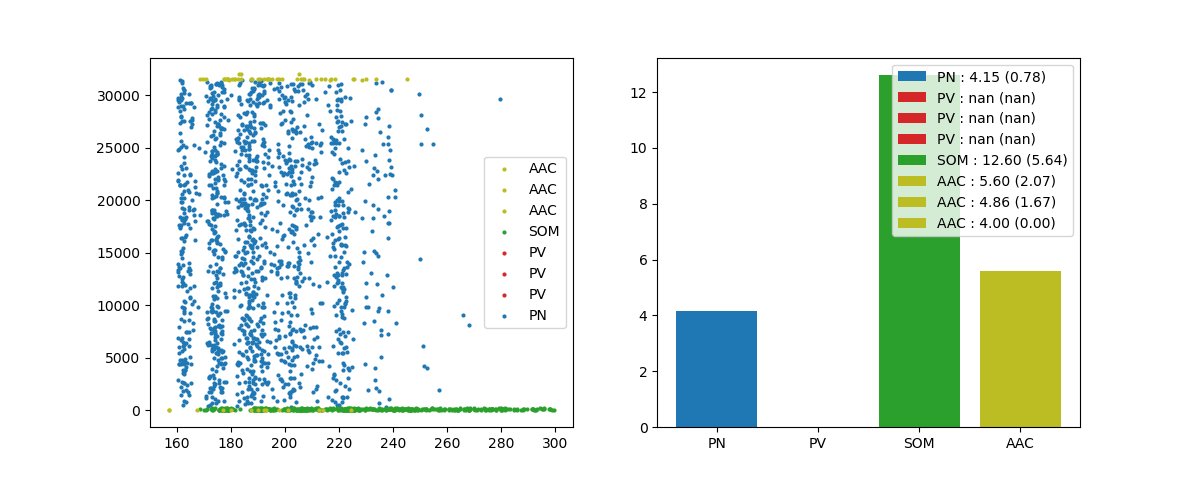
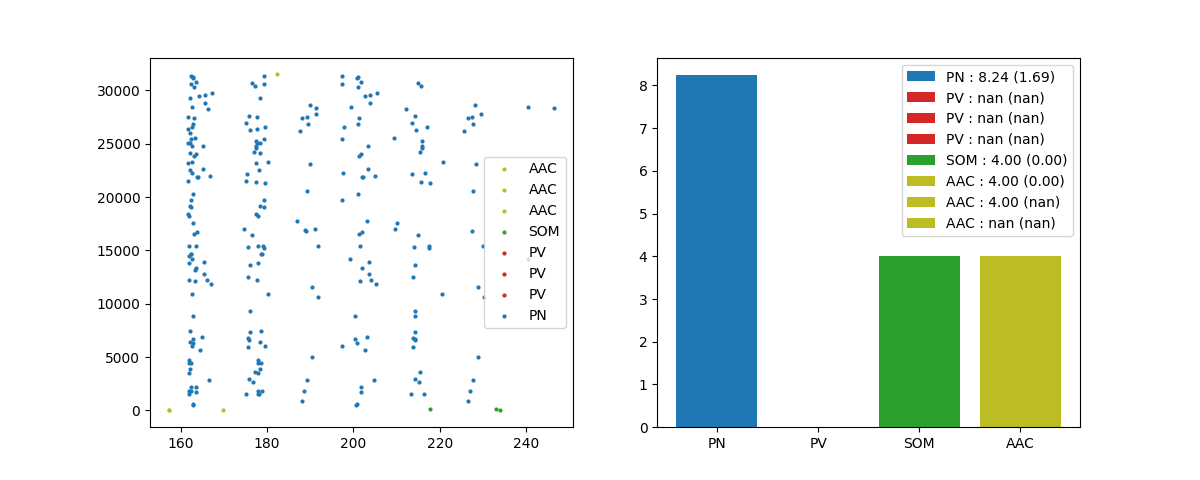
going back to just AAC->PN

diff --git a/plot.py b/plot.py
@@ -6,10 +6,10 @@ import pandas as pd
 import matplotlib.pyplot as plt
 import h5py
 
-#raster = plot_raster(config_file='simulation_config.json', group_by='pop_name', times=(150, 300), title="raster", show=False)
+raster = plot_raster(config_file='simulation_config.json', group_by='pop_name', times=(150, 300), title="raster")
 
-#plt.savefig('raster.png')
-
+plt.show()
+"""
 def raster(spikes_df, node_set, skip_ms=0, ax=None):
     spikes_df = spikes_df[spikes_df['timestamps'] > skip_ms]
     for node in node_set:
@@ -83,3 +83,4 @@ raster(spikes_df,node_set,skip_ms=0,ax=ax1)
 spike_frequency_bar_graph(spikes_df,node_set,start=0,end=250,ax=ax2,ms=(250))
 
 plt.savefig('raster.png')
+"""

diff --git a/build_network.py b/build_network.py
@@ -477,7 +477,7 @@ conn = net.add_edges(source={'pop_name': 'Pyr'}, target={'pop_name': 'AAC'},
 # dynamics_params='PN2INT.json',
 # model_template=syn['PN2INT.json']['level_of_detail'],
 # convergence of 17
-
+"""
 print('PV connections')
 conn = net.add_edges(source={'pop_name': 'PV'}, target={'pop_name': 'Pyr'},
                      connection_rule=n_connections,
@@ -589,7 +589,7 @@ conn = net.add_edges(source={'pop_name': 'Pyr'}, target={'pop_name': 'OLM'},
                      target_sections=['basal'],
                      sec_id=2,
                      sec_x=0.5)
-
+"""
 """
 #convergence of 13
 print("CCK connections")
